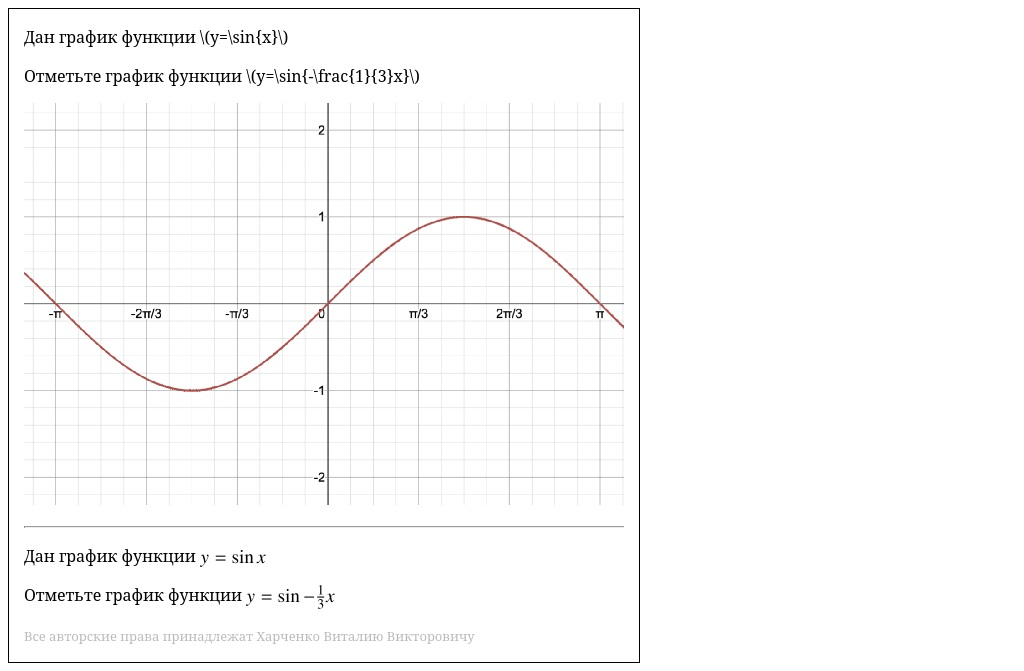
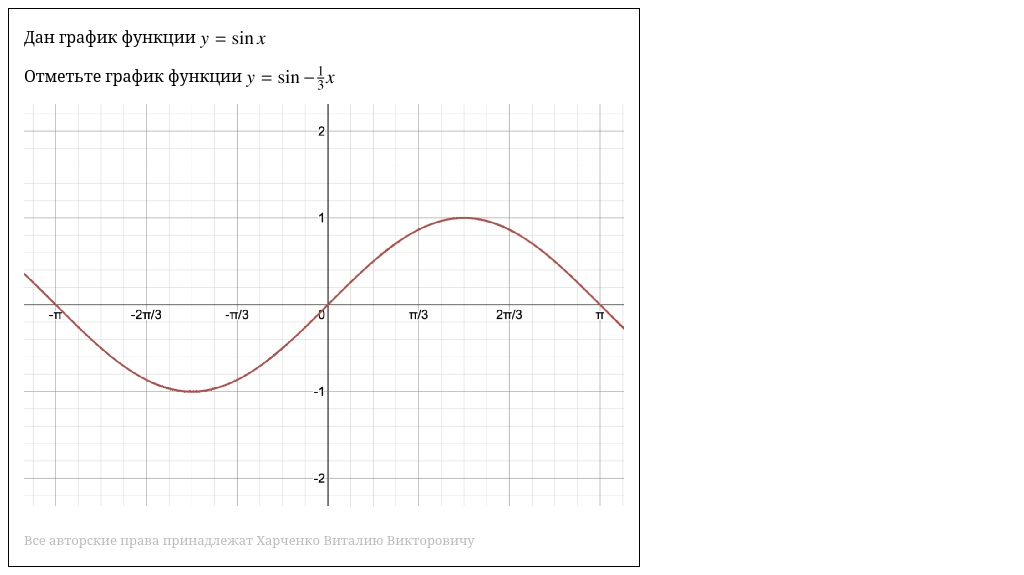
learn how to print questions

diff --git a/server/apps/questions/templates/questions/question.html b/server/apps/questions/templates/questions/question.html
@@ -31,11 +31,7 @@
 <body> 
     <div class="container">
     {% autoescape off %}
-    {{ question.question_text_new }}
-    {% endautoescape %}
-    <hr>
-    {% autoescape off %}
-    {{ question.get_html_text }}
+    {{ question.get_html_text_new }}
     {% endautoescape %}
     <p style="color: #bbb"><small>Все авторские права принадлежат Харченко Виталию Викторовичу</small></p>
     </div>

diff --git a/server/apps/questions/models.py b/server/apps/questions/models.py
@@ -1,9 +1,8 @@
 from django.db import models
 from markdownx.models import MarkdownxField
-from ckeditor.fields import RichTextField
 from ckeditor_uploader.fields import RichTextUploadingField
 from apps.results.models import StringResult
-import markdown
+from .utils.markdown import beautify
 
 
 def get_question_image_directory_path(instance, filename):
@@ -110,20 +109,10 @@ class Question(models.Model):
     def true_options(self):
         options = QuestionOption.objects.filter(question=self, is_true=True)
         return options
-    
-    def get_html_text(self):
-        question_text = self.question_text
-        extension_configs = {
-            'mdx_math_svg': {
-                'inline_class': 'math',
-                'display_class': 'math'
-            }
-        }
-        md = markdown.Markdown(extensions=['mdx_math_svg'], extension_configs=extension_configs)
 
-        svg_text = md.convert(question_text)
-
-        return svg_text
+    def get_html_text_new(self):
+        question_text_new = self.question_text_new
+        return beautify(question_text_new)
 
     def check_answer(self, answer, user):
         score = self.get_score(answer)

diff --git a/server/apps/questions/utils/markdown.py b/server/apps/questions/utils/markdown.py
@@ -1,0 +1,39 @@
+from bs4 import BeautifulSoup
+import markdown
+
+
+def beautify(question_text_new):   
+    soup = BeautifulSoup(question_text_new, 'html.parser')
+
+    for node in soup.find_all('span'):
+        tex_string = node.string
+        tex_string = tex_string.removeprefix("\(").removesuffix("\)")
+
+        inline = True
+        if not node.next_sibling and not node.previous_sibling:
+            inline = False
+
+        if inline:
+            tex_string = f"${tex_string}$"
+        else:
+            tex_string = f"$${tex_string}$$"
+
+        node.clear()
+
+        extension_configs = {
+            'mdx_math_svg': {
+                'inline_class': 'math',
+                'display_class': 'math'
+            }
+        }
+        md = markdown.Markdown(extensions=['mdx_math_svg'], extension_configs=extension_configs)
+
+        svg_text = md.convert(tex_string)
+
+        if inline:
+            svg_text = svg_text.removeprefix("<p>").removesuffix("</p>")
+
+        node.append(BeautifulSoup(svg_text, 'html.parser'))
+
+    new_html_text = str(soup)
+    return new_html_text

diff --git a/server/apps/questions/urls.py b/server/apps/questions/urls.py
@@ -3,7 +3,10 @@ from . import views
 
 
 urlpatterns = [
+    # Api views
     path('questions/<int:pk>/', views.QuestionDetail.as_view()),
     path('questions/random', views.RandomQuestion.as_view()),
-    path('questions/<int:pk>/html', views.QuestionHtmlView.as_view())
+
+    # Template views
+    path('questions/<int:pk>/html', views.QuestionHtmlView.as_view()),
 ]

diff --git a/server/apps/questions/views.py b/server/apps/questions/views.py
@@ -101,6 +101,8 @@ class RandomQuestion(APIView):
 
 from django.views.generic import TemplateView
 from django.views.generic import DetailView
+# from latex2svg import latex2svg
+from bs4 import BeautifulSoup
 
 class QuestionHtmlView(DetailView):
     model = Question
